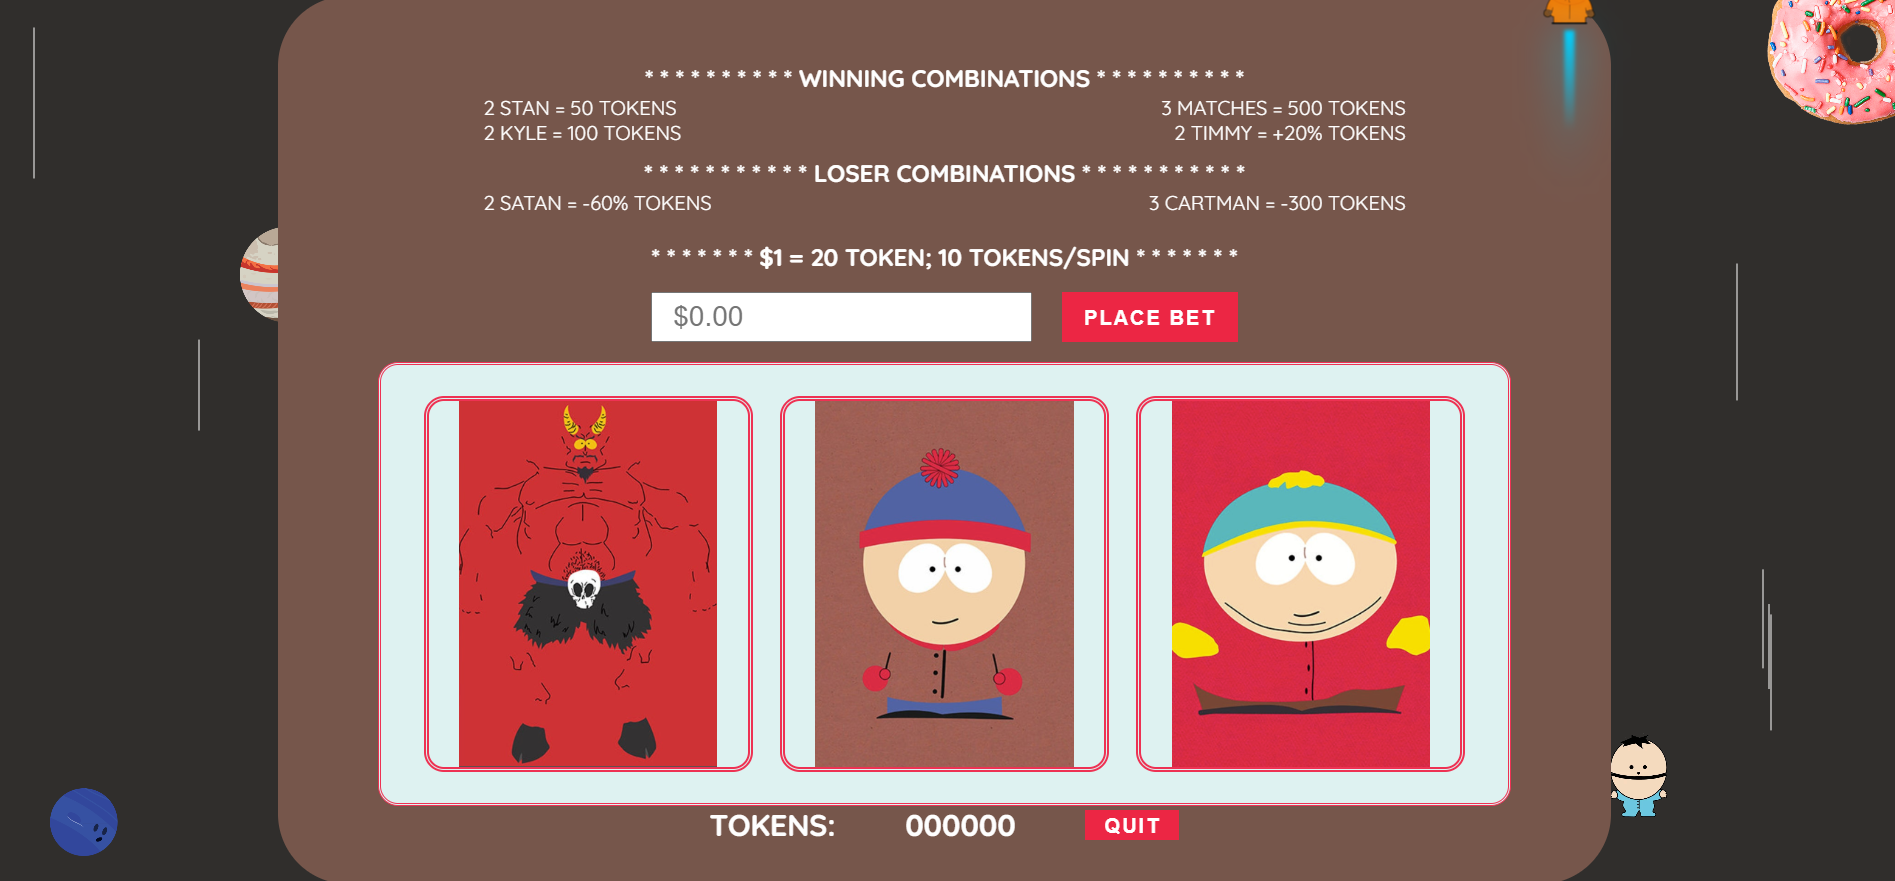
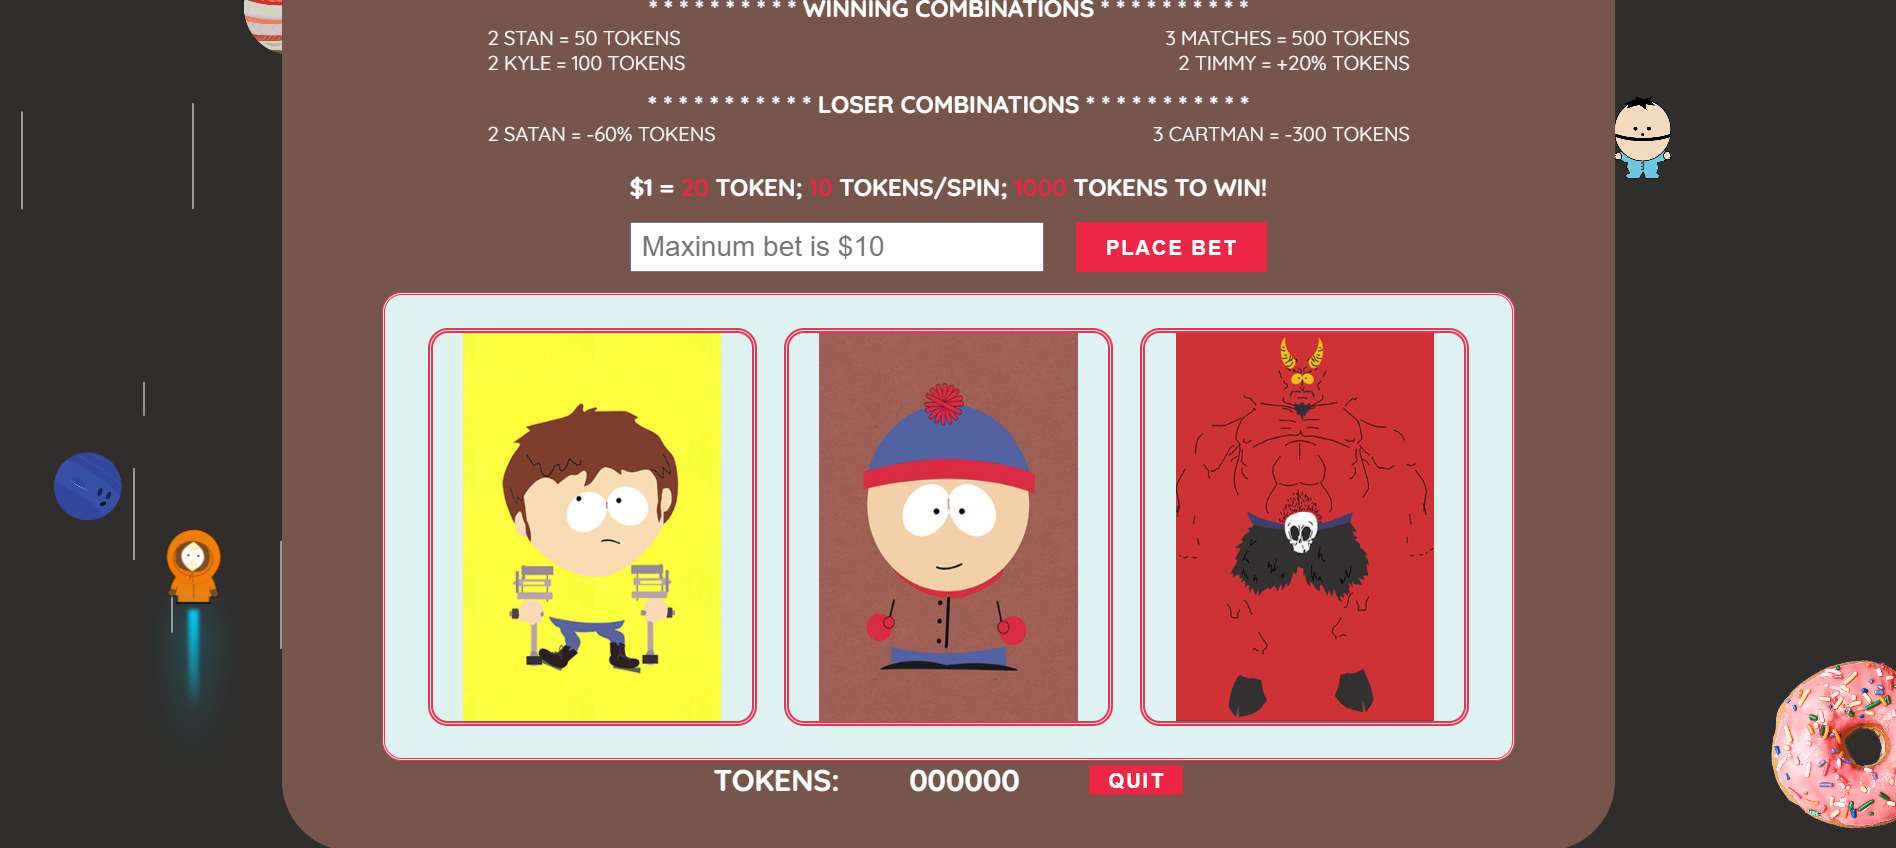
1. Replace screen shot two 2. New feasure: mouse over chef will triger audio

diff --git a/main.js b/main.js
@@ -1,4 +1,3 @@
-
 //***********------------ FLYING KENNY AND STARS ------------************* */
 
 document.addEventListener("mousemove", function (e) {
@@ -6,6 +5,7 @@ document.addEventListener("mousemove", function (e) {
     kenny.style.left = e.offsetX + 'px';
     kenny.style.top = e.offsetY + 'px';
 })
+
 function stars() {
     let count = 50;
     let scene = document.querySelector('.scene');
@@ -33,10 +33,10 @@ stars();
 
 //***********------------ CONSTANTS ------------************* */
 const imagesObjArray = [
-    // { name: 'cartman', image: 'img/cartman.png' },
-    // { name: 'jimmy', image: 'img/jimmy.png' },
-    // { name: 'kyle', image: 'img/kyle.png' },
-    //{ name: 'satan', image: 'img/satan.png' },
+    { name: 'cartman', image: 'img/cartman.png' },
+    { name: 'jimmy', image: 'img/jimmy.png' },
+    { name: 'kyle', image: 'img/kyle.png' },
+    { name: 'satan', image: 'img/satan.png' },
     { name: 'stan', image: 'img/stan.png' },
     { name: 'timmy', image: 'img/timmy.png' },
 ];
@@ -80,7 +80,7 @@ let slot_audio = document.querySelector('#roll_slot');
 betBtn.addEventListener('click', placeBet);
 quitBtn.addEventListener('click', initialize);
 roller.addEventListener('click', spin);
-chef_audio.addEventListener('click', function () {
+chef_audio.addEventListener('mouseover', function () {
     helloChildren_audio.play();
 });
 

diff --git a/style.css b/style.css
@@ -38,10 +38,9 @@ section {
     content : '';
     position: absolute;
     top     : 0;
-    width   : 10%;
+    width   : 2%;
     height  : 100vh;
     margin  : 0 auto;
-    z-index : 99;
 }
 
 .machine-body {
